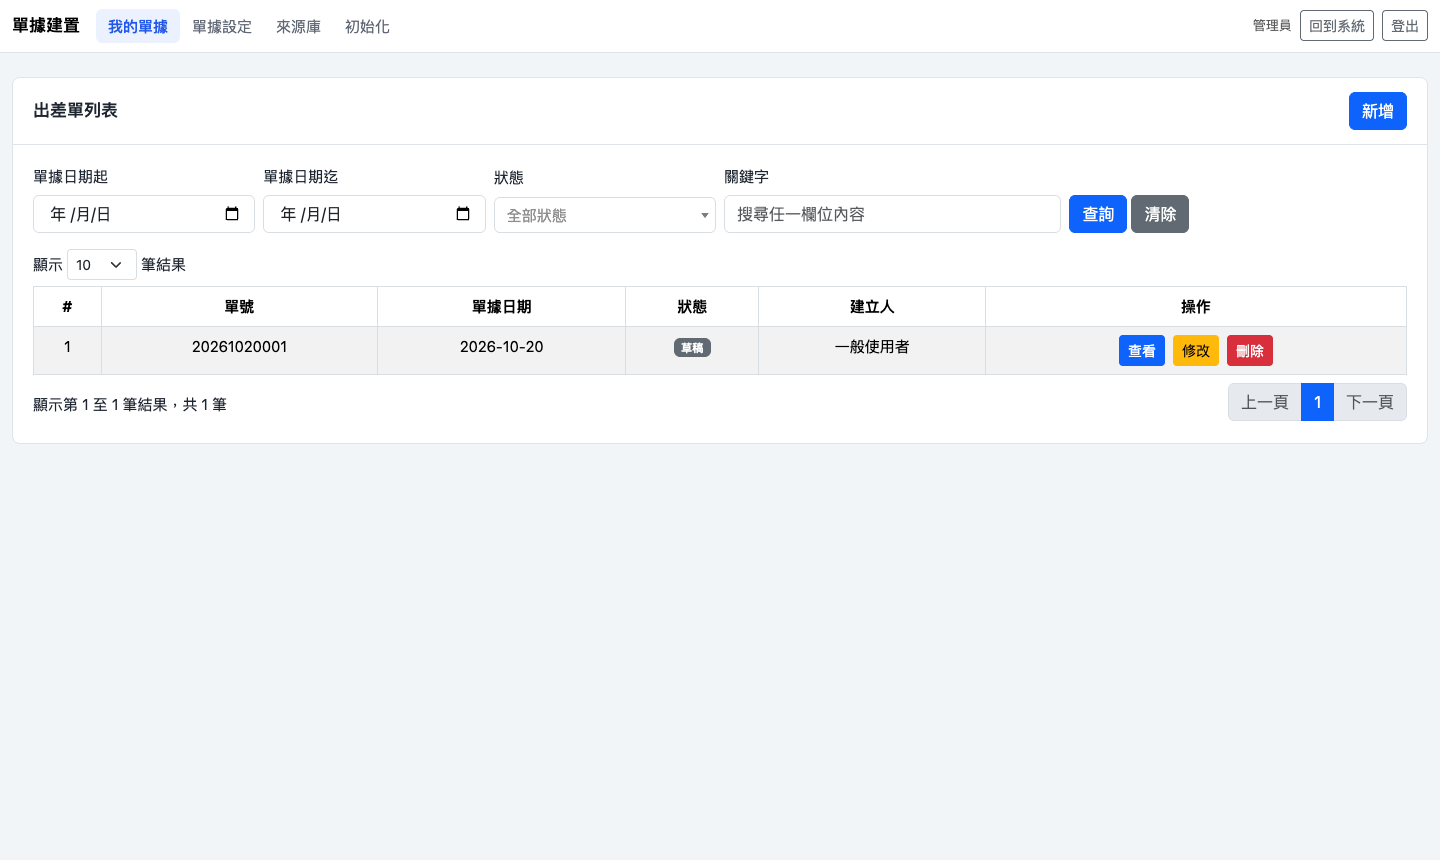
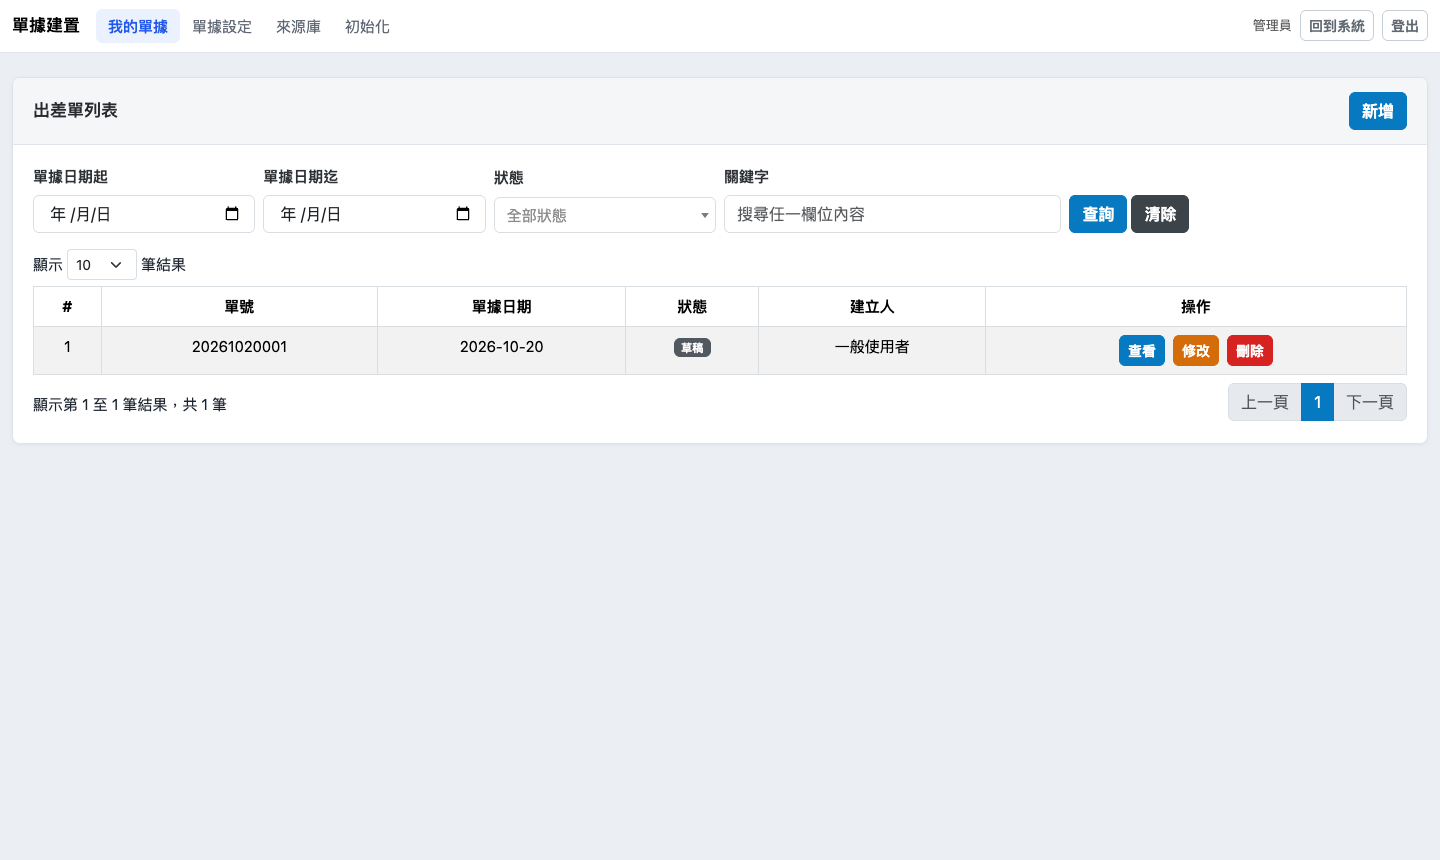
docs: 重拍 README 畫面截圖並加入外觀設定
截圖改用新版介面（標題列、按鈕主色、外觀設定頁），精靈五步重新拍攝；
其他畫面新增填單詳情與外觀設定。

diff --git a/README.md b/README.md
@@ -43,6 +43,14 @@
 
 ![單據列表](docs/screenshots/06-records.png)
 
+填單詳情
+
+![填單詳情](docs/screenshots/07-record-form.png)
+
+外觀設定（超級管理員）
+
+![外觀設定](docs/screenshots/08-appearance.png)
+
 </details>
 
 ## 支援版本
